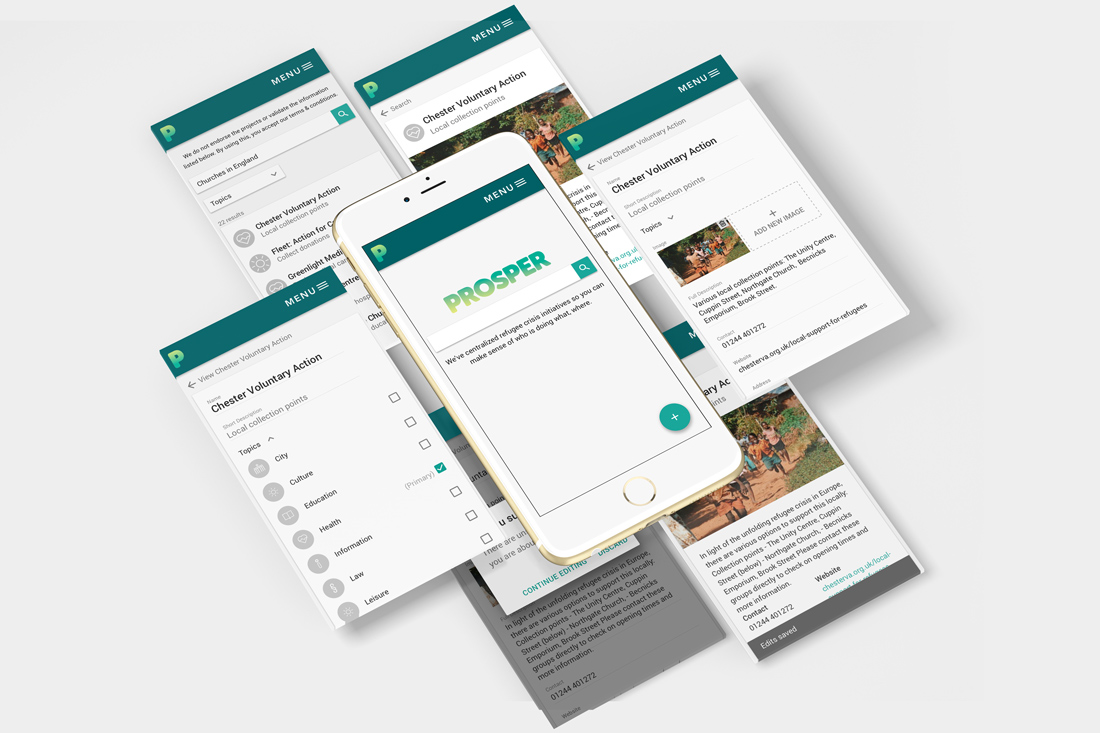
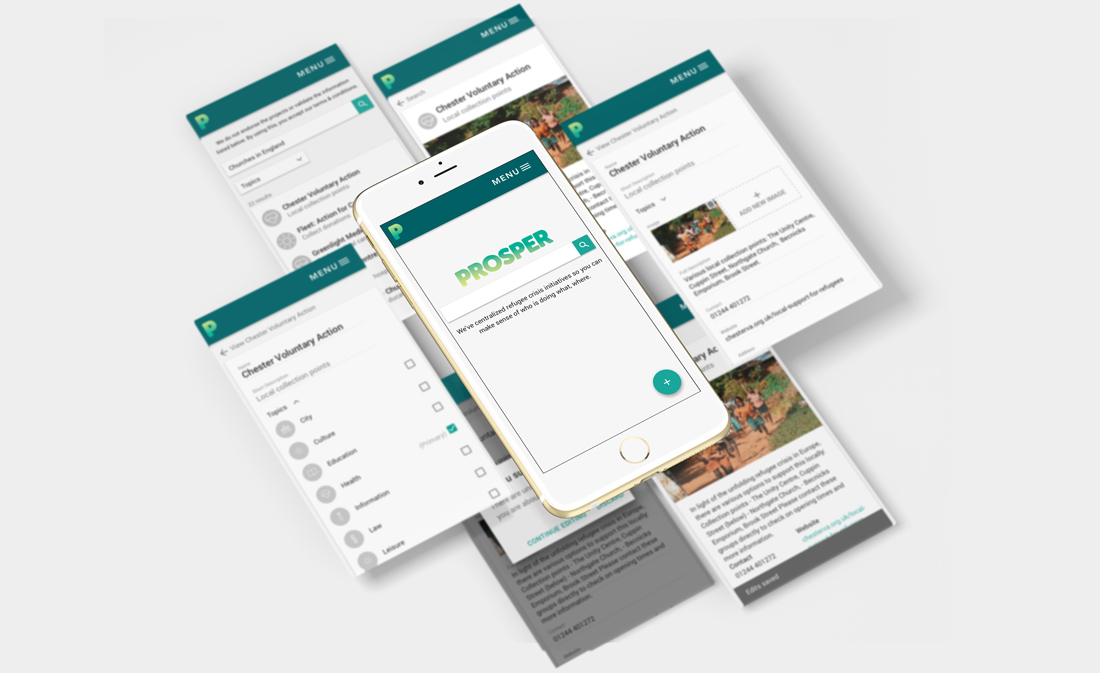
add new portfolio thumb for prosper app and create new marquee image

diff --git a/app/styles/03-modules/_m-marquee.scss b/app/styles/03-modules/_m-marquee.scss
@@ -57,5 +57,9 @@
   &#sprky {
     background-image: url('../images/sprky-bg.jpg');
   }
+  &#prosper-app {
+    background-image: url('../images/prosper-app-marquee.jpg');
+
+  }
 
 }
